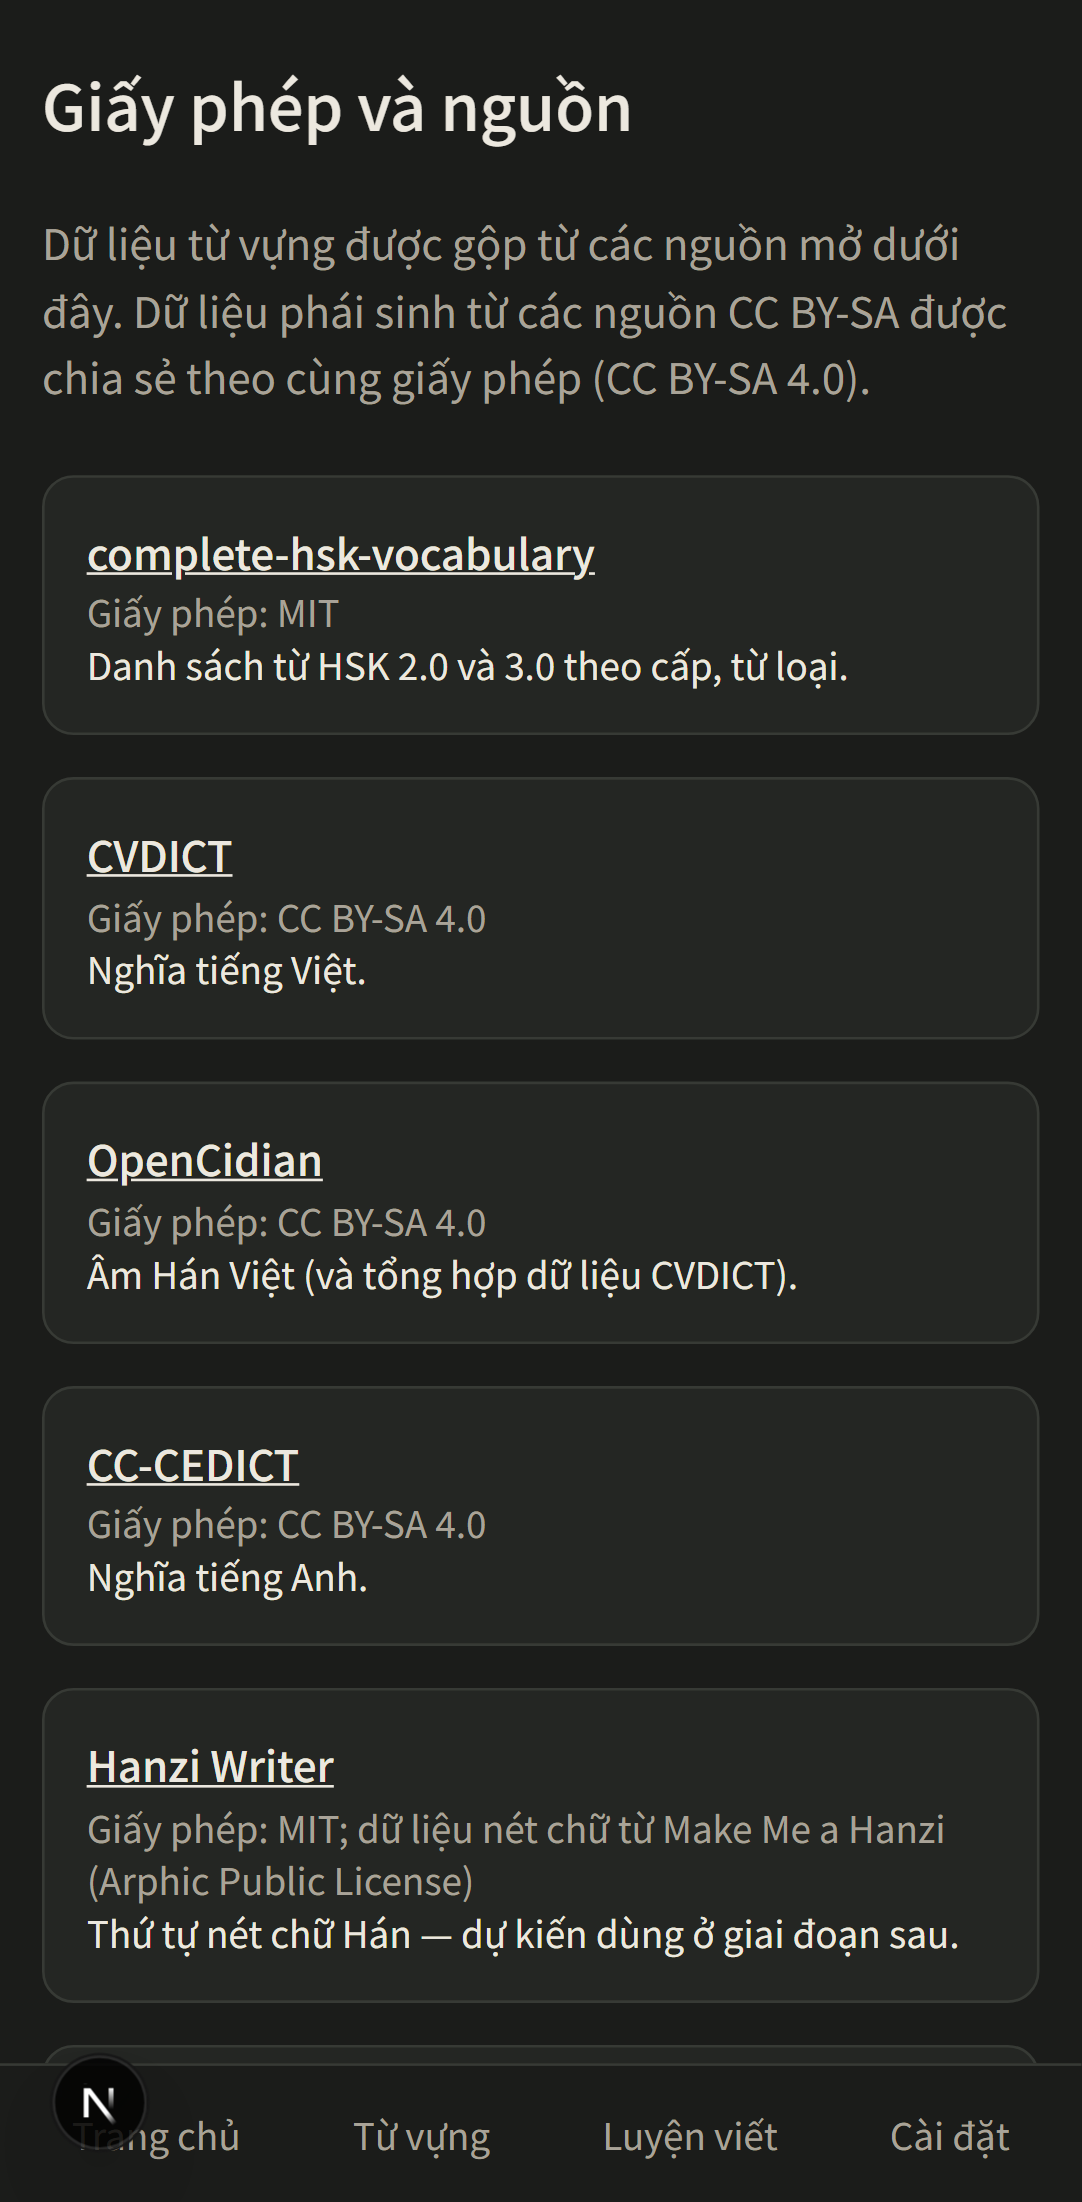
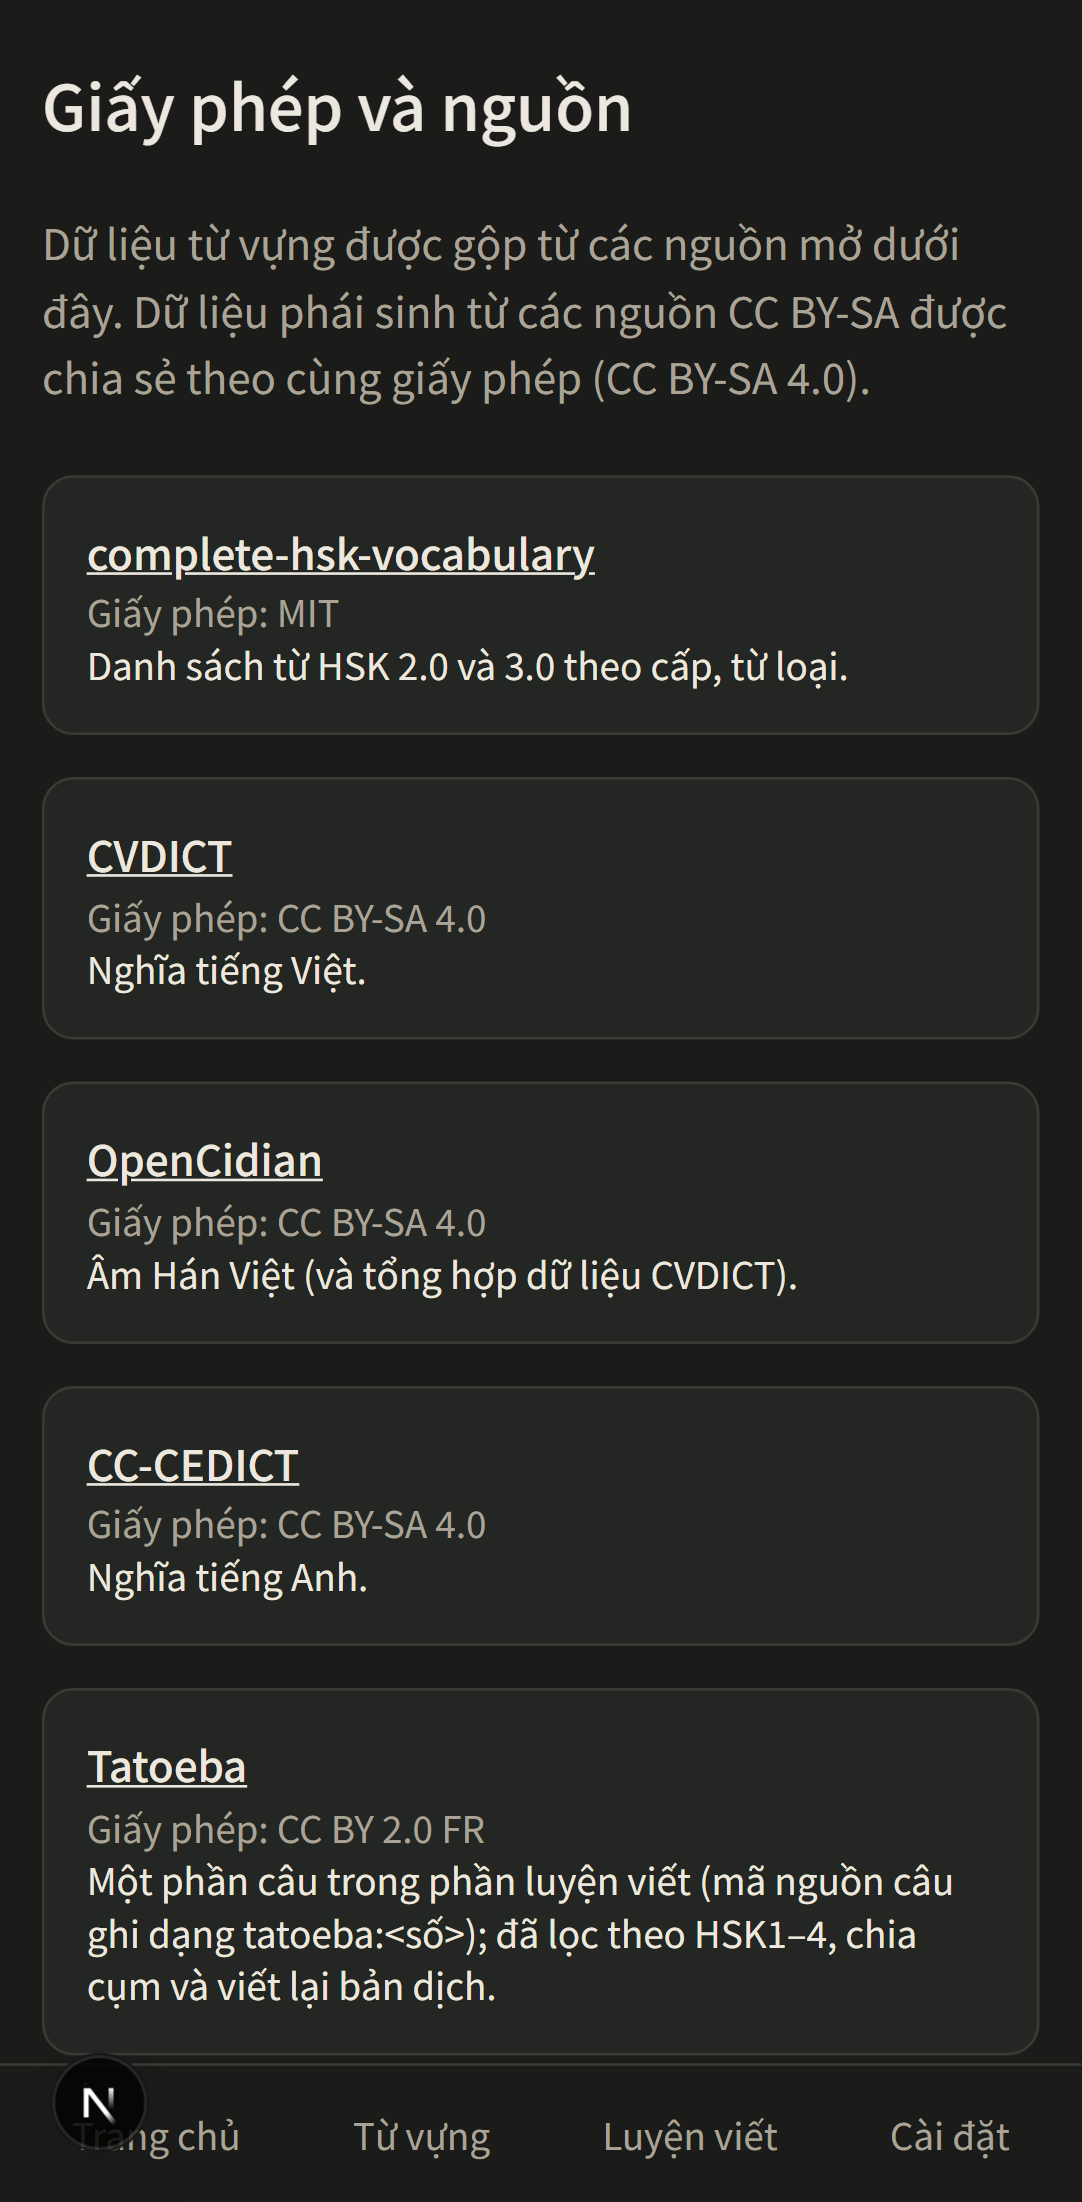
feat: credit Tatoeba on the about page; record CR-003 verification

Changed region(s): [[0.061, 0.772, 0.8845, 0.9264]]

diff --git a/e2e/about.spec.ts b/e2e/about.spec.ts
@@ -2,10 +2,12 @@ import { expect, test } from "@playwright/test";
 
 test("trang Giấy phép và nguồn ghi đủ các nguồn dữ liệu", async ({ page }) => {
   await page.goto("/about");
-  for (const name of ["complete-hsk-vocabulary", "CVDICT", "OpenCidian", "CC-CEDICT", "Hanzi Writer", "Arphic"]) {
+  for (const name of ["complete-hsk-vocabulary", "CVDICT", "OpenCidian", "CC-CEDICT", "Hanzi Writer", "Arphic", "Tatoeba"]) {
     await expect(page.getByText(name).first()).toBeVisible();
   }
   await expect(page.getByText("CC BY-SA 4.0").first()).toBeVisible();
+  await expect(page.getByText("CC BY 2.0 FR").first()).toBeVisible();
+  await expect(page.getByRole("link", { name: /Tatoeba/ })).toHaveAttribute("href", "https://tatoeba.org");
 });
 
 test("manifest PWA có sẵn", async ({ request }) => {

diff --git a/src/app/(main)/about/page.tsx b/src/app/(main)/about/page.tsx
@@ -24,6 +24,12 @@ const SOURCES = [
     use: "Nghĩa tiếng Anh.",
   },
   {
+    name: "Tatoeba",
+    url: "https://tatoeba.org",
+    license: "CC BY 2.0 FR",
+    use: "Một phần câu trong phần luyện viết (mã nguồn câu ghi dạng tatoeba:<số>); đã lọc theo HSK1–4, chia cụm và viết lại bản dịch.",
+  },
+  {
     name: "Hanzi Writer",
     url: "https://hanziwriter.org",
     license: "MIT; dữ liệu nét chữ từ Make Me a Hanzi (Arphic Public License)",

diff --git a/docs/features/study/phase2-writing-practice/status.md b/docs/features/study/phase2-writing-practice/status.md
@@ -60,7 +60,7 @@
   2. 11 câu thiếu thứ tự đúng tự nhiên (đảo tân ngữ/định ngữ) → thêm vào `accepted` (11 test mới); sửa pinyin w015.
 - Minor chưa xử lý: shuffle fallback không kiểm tra; bàn cờ chưa khóa khi đang lưu; thử lại sau lỗi lưu có thể đếm đôi attempt; phím số/Backspace hoạt động khi đang kéo bằng phím; mất focus sau khi chạm; `started` ref khi đổi query; WritingHome/MistakesView không có nhánh lỗi; validator kiểm tra chữ chứ không phải từ; nhãn `result-complement` gộp nhiều loại; nhắc sao lưu không tính luyện viết; chưa có test kéo bằng phím.
 
-## CR-003 — Mở rộng và nâng chất lượng kho câu · 🟡 chờ duyệt kế hoạch · 2026-11-18
+## CR-003 — Mở rộng và nâng chất lượng kho câu · ✅ DONE · 2026-11-18
 
 | ID | Task | Trạng thái | Test | Ghi chú |
 |---|---|---|---|---|
@@ -69,7 +69,7 @@
 | T-003.3 | Rà soát bằng agent (soạn + thẩm định độc lập) | ✅ DONE | bỏ qua Playwright: dữ liệu | 3 thẩm định: câu mới 153 ok/24 fix/0 drop; câu cũ 86/12/2 drop |
 | T-003.4 | Nhập câu vào sentences.json + trường source | ✅ DONE | vitest 190/190, validate OK, tsc sạch, lint 0 lỗi; Playwright để T-003.6 | 275 câu |
 | T-003.5 | Trang Giấy phép: thêm Tatoeba | ⬜ TODO | | cần Playwright |
-| T-003.6 | Xác minh cuối + tài liệu | ⬜ TODO | | |
+| T-003.6 | Xác minh cuối + tài liệu | ✅ DONE | build OK, tsc sạch, lint 0 lỗi, vitest 190/190, playwright 36/37 (vocab TC-01 flaky đã biết, chạy riêng 4/4) | |
 
 **T-003.2 ghi chú (2026-11-18):** dữ liệu Tatoeba tải về `D:/hsk-data/tatoeba/out` (ngoài repo; file export theo ngôn ngữ không kèm tác giả nên ghi nguồn bằng id `tatoeba:<id>` + trang Giấy phép). Script `scripts/import-tatoeba.ts` + `scripts/lib/tatoeba.ts` cho **295 ứng viên** (`D:/hsk-data/candidates.json`): 257 chưa gắn quy tắc, 29 shi-de, 9 ba, 0 bei (heuristic từ khoá còn thô, có dương tính giả như 是…的 trong "可惜这是真的"). Ruling: script chỉ phân đoạn từ (longest-match), việc chia cụm cuối + `accepted`/`mistakes`/pinyin giao cho agent ở T-003.3 vì chia cụm tự động không đủ tin cậy. Bản dịch Việt của Tatoeba lỏng/sai ở một số câu (vd. tatoeba:15, :332638) → agent phải viết lại `meaningVi` khi cần. Với 295 ứng viên, 0 câu bei → có thể cần tự viết thêm câu `original` cho bei/result/time-place.
 
@@ -77,3 +77,5 @@
 - Ruling: ngưỡng test đặt **≥ 250 câu, ≥ 20/quy tắc** (kế hoạch ghi ≥ 25) vì Tatoeba hầu như không có câu 被 dùng được; bei chỉ có 22. Chi phí nếu sai: quy tắc 被 ít câu hơn các quy tắc khác.
 - Ruling: `source` là trường tùy chọn trong schema; 100 câu gốc không có (tác giả là chính dự án), test chỉ bắt buộc với id > w100.
 - Ghi nhận chưa xử lý: w032/w034/w085/n024/n032 thuộc bổ ngữ trình độ/xu hướng/thời lượng nhưng gắn `result` (chưa có quy tắc riêng); validator kiểm tra chữ chứ không kiểm tra từ nên vài từ (院子, 班长, 湿) có thể vượt HSK4.
+
+**CR-003 xong (2026-11-18):** 275 câu, tất cả `reviewed:false` — vẫn cần người thạo tiếng Trung duyệt. Trang Giấy phép đã có Tatoeba. Đề HSK4 mới có thể bỏ 完成句子 (1 nguồn, chưa xác nhận) — xem design.md.

diff --git a/docs/features/README.md b/docs/features/README.md
@@ -8,4 +8,4 @@ Trạng thái: 🟡 IN_PROGRESS · ✅ DONE · ⏸ PAUSED · 🔴 BLOCKED
 | Chức năng | Folder | Trạng thái | Yêu cầu đang làm | Cập nhật |
 |---|---|---|---|---|
 | Giai đoạn 1 — Nền tảng và từ vựng | [study/phase1-foundation-vocab](study/phase1-foundation-vocab/status.md) | ✅ DONE | — (chờ duyệt merge) | 2026-11-18 |
-| Giai đoạn 2 — Luyện viết (sắp xếp câu) | [study/phase2-writing-practice](study/phase2-writing-practice/status.md) | 🟡 IN_PROGRESS | CR-002 xong; CR-003 (mở rộng kho câu) chờ duyệt kế hoạch | 2026-11-18 |
+| Giai đoạn 2 — Luyện viết (sắp xếp câu) | [study/phase2-writing-practice](study/phase2-writing-practice/status.md) | 🟡 IN_PROGRESS | CR-002 xong; CR-003 xong (275 câu, nguồn Tatoeba) | 2026-11-18 |
